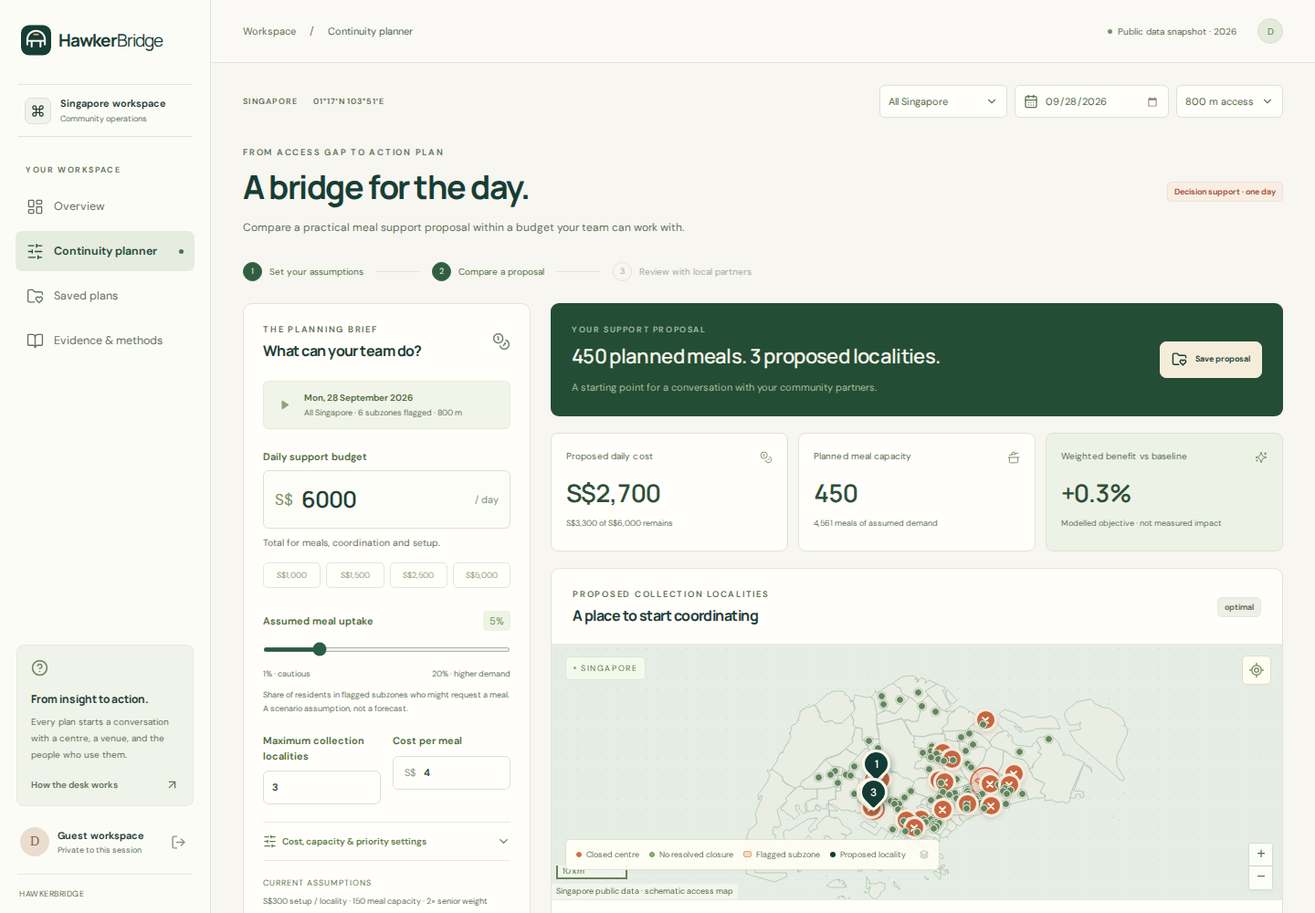
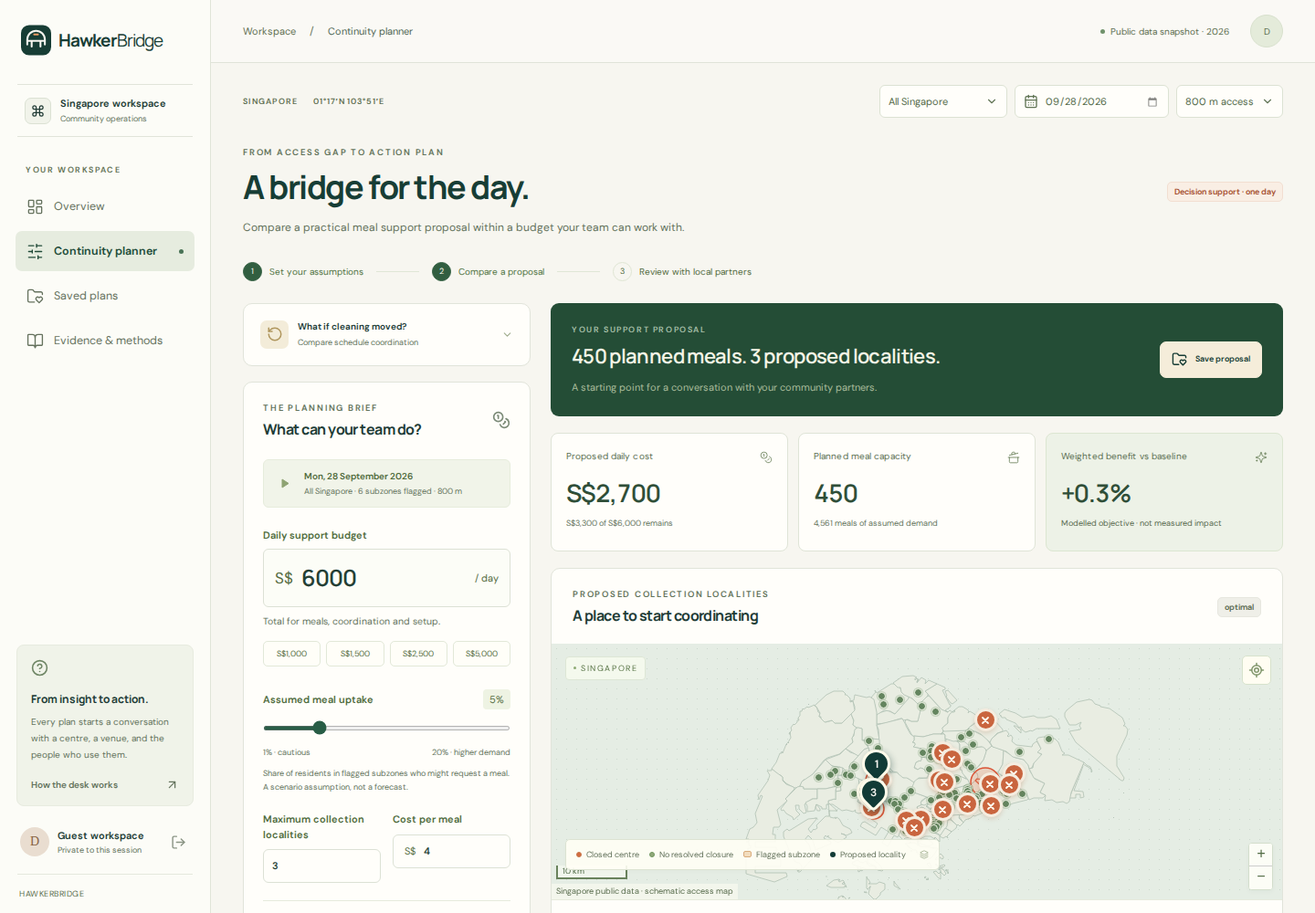
Publish hosted verification, narrated demo and final submission evidence

diff --git a/scripts/build_submission_pack.py b/scripts/build_submission_pack.py
@@ -116,7 +116,7 @@ def main() -> None:
                 "docs/screenshots": ["*.png", "README.md", "provenance.json"],
         "submission": ["*.md", "*.srt", "deployment-status.json", "team.json", "narration-scenes.json"],
         "submission/assets": ["*.png"],
-        "output": ["example-continuity-plan.csv", "example-continuity-plan.json", "hosted-smoke.json", "hosted-restart-smoke.json"],
+        "output": ["example-continuity-plan.csv", "example-continuity-plan.json", "hosted-smoke.json", "hosted-restart-smoke.json", "hosted-assets.json"],
         "data/processed": ["databricks-publication.json", "databricks-evaluation.json"],
         "output/video": [
             "hawkerbridge-demo-narrated.mp4",

diff --git a/docs/final-rubric-review.md b/docs/final-rubric-review.md
@@ -1,0 +1,67 @@
+# Final rubric and release review
+
+Updated 22 September 2026 for source `b539db724c3731897595e81061a73070655920cf`. This is an internal assessment, not an official judge score, a winning prediction or a security certification. Weights follow the [official final-solution rubric](https://daisi.online/guide). The scale is ten points per criterion, multiplied by its published weight.
+
+**Internal score: 84/100.** The actual narrated hosted video and both rebuilt decks exist and have recorded verification. Final hosted acceptance has now passed all four application journeys, following a test-only correction to an overly short initial-readiness timeout. Adoption, measured benefit and eligibility remain separate unresolved questions.
+
+| Official criterion | Weight | Assessment | Weighted score | Evidence and remaining limit |
+| --- | ---: | ---: | ---: | --- |
+| Social impact | 30% | 7/10 | 21/30 | Named coordinator workflow, credible continuity decision and measurable pilot protocol. No observed uptake, operator interview, paid commitment or welfare outcome is verified. |
+| Technical execution on Databricks | 30% | 9/10 | 27/30 | Successful governed pipeline, twelve quality checks, nine MLflow scenarios, four query datasets, published AI/BI dashboard, native App OAuth checks and actual Delta isolation/concurrency tests. Native workspace browser rendering and a second real workspace identity remain unverified. |
+| Solution and user experience | 20% | 9/10 | 18/20 | Complete analysis, cleaning comparison, private-plan and export workflow. Four final hosted browser journeys, HTTP, isolation, stale-edit rejection and rollout persistence passed. Automated accessibility checks found no serious or critical violations on the tested screens. Operator usability and venue capacity remain unvalidated. |
+| Data rigour | 10% | 9/10 | 9/10 | Five official sources, original bytes/hashes/dates, quarantine, preserved proposal evidence and mathematical feasibility checks. Dated census, representative points, omitted food alternatives and unsupported waste/permanent-closure labels are disclosed. |
+| Presentation | 10% | 9/10 | 9/10 | Concrete 225/450/450 story, reviewed three-slide and nine-slide decks, public 175-second narrated hosted recording and 33 timed captions. Presenter rehearsal and a clear response to the data limitations still matter. |
+
+## Numbers and claims checked
+
+Recomputed the released engine against the promoted Databricks snapshot. On **28 September 2026**, at **800 metres**, there are **17 scheduled centre closures**, **1,025 listed food stalls** inside those centres, and **six flagged subzones** containing **91,180 Census 2020 residents**, including **17,120 seniors**. These are area-screen totals; they are not people observed to need food. Inventory contains 123 records, of which 120 have food stalls.
+
+At 5% assumed participation, S$4 per meal, S$300 setup, 150 meals per locality, at most three localities and senior weight 2: **S$1,500 → 225 planned meals / S$1,500 spending / two localities; S$3,000 → 450 / S$2,700 / three; S$6,000 → 450 / S$2,700 / three**. No meals or venues are booked. The ceiling follows the declared capacity and site limit; it is an operational question to verify, not a discovered real-world service capacity.
+
[1 lines of base64/hex data omitted]
+
+| Evidence | Actual execution and scenarios | Supported objective uplift claim |
+| --- | --- | --- |
+| [Local robustness evaluation](../data/processed/evaluation.json) | 15 unique local runs on the cloud-published snapshot. Dates Sep 22, Sep 28 and Dec 14; primary budgets S$1,500/3,000/6,000 at 800 m; additional 500/1,200 m reach checks. All 15 pass the feasibility audit. | **0.3%–9.2% across nine primary cases**. The full 15-case range is 0.3%–13.8%; do not attach the primary range to a different set. |
+| [Databricks evaluation](../data/processed/databricks-evaluation.json) | Nine actual cloud runs: **Sep 22, Oct 5 and Dec 14 × S$600/1,500/3,000**, all at 800 m. | **2.8%–9.2% across the nine cloud cases**. These are policy-weighted model objectives, not observed welfare or predictive accuracy. |
+
+The **Sep 28 presentation is an API recomputation from the cloud publication**, not one of the nine recorded cloud evaluation cases. The [execution record](../data/processed/databricks-publication.json) records pipeline `SUCCESS`, parent MLflow `FINISHED`, twelve passing checks and four query datasets. Three tabular sources were fetched live; two URA geometry archives were reused with their original timestamps and verified checksums. “Five sources freshly downloaded in Databricks” would be inaccurate. The API now withholds stale, missing, failed or mismatched cloud proof.
+
+## Commercial assessment
+
+The [business case](business-case.md) is appropriately cautious. Its S$1,000 pilot, S$250–500 monthly subscription, support-hour assumptions and hosting allowances are explicitly experiments, not sales, quotations or forecasts. All three contribution calculations reconcile, including the negative downside case. Founder time is costed, meal-operation costs are separated from software revenue, and Databricks Free Edition is correctly excluded as the basis for a paid production promise.
+
+The critical assumption is task frequency. A single site's occasional cleaning closure may not create enough work for a subscription; a multi-site operator or scoped project fee is more plausible. At S$300/month and S$30/hour, ten saved hours merely offset the subscription before onboarding and verification. Require a named accountable buyer, measured baseline preparation time and repeat willingness to pay before presenting commercial traction. Public data and an optimiser are not a moat. Do not delay a useful pilot to add a speculative LLM feature: no paid LLM is required by the current product.
+
+## Final evidence and verification boundaries
+
+| Evidence | Verified result | Boundary |
+| --- | --- | --- |
+| [Local CI 35696909209](https://github.com/shi1720/DAISI/actions/runs/35696909209) | Completed successfully on `b539db7`, including backend, frontend and browser workflow checks. | Local-runner success does not establish public hosting acceptance. |
+| [Final hosted acceptance 35697740614](https://github.com/shi1720/DAISI/actions/runs/35697740614) | Completed successfully against `hawkerbridge-api-00006-lnl`: 180 backend tests, 30 frontend tests and four hosted browser journeys passed. Tested source `16b538d` changes initial readiness to a bounded twenty-second API-success wait, without retries; deployed product code is `b539db7`. | One opt-in frontend integration test and the optional recording test were intentionally skipped. The four application journeys all ran. A passing check is not an accessibility certification or availability SLA. |
+| [Hosted HTTP acceptance](../output/hosted-smoke.json) | Managed sign-in, two-user isolation, 225/450/450, all exports, CSRF/origin boundaries, current evidence and stale-edit rejection passed. | HTTP verification is distinct from visual/accessibility/browser acceptance. |
+| [Rollout persistence](../output/hosted-restart-smoke.json) | A named account and saved proposal survived a container rollout; disposable test data was deleted. | This establishes the recorded rollout, not an availability SLA. |
+| [Native Databricks verification](databricks-verification.json) | Final App deployment uses source `b539db7`; deployed backend/frontend file hashes match. OAuth health, platform session, nine-case evidence and all three budget scenarios passed. The actual Delta concurrency/isolation test passed. | Native browser/map/mobile rendering, a second real workspace user and dashboard visual rendering are explicitly unverified. |
+| [Retention verification](firebase-retention-verification.json) | Hourly scheduler enabled; authenticated scheduled invocation, execute and dry runs succeeded; saved deletion command survived dry-run. | Guest expiry and bounded cleanup are operational controls, not a commercial service guarantee. |
+| [Public narrated video](https://youtu.be/vioVop-MEVA) and [provenance](../output/video/narrated-provenance.json) | Studio confirmed public publication; the watch page played the 175-second video with the correct title, author and English captions. Unauthenticated oEmbed returned 200. The local H.264/AAC file checksum reconciles; 1600 × 900, 33 captions and fourteen documented visual sample points. Synthetic Cedar narration is disclosed. | The video is a recorded demonstration using the earlier capture revision below. Playback verification does not establish universal network or device compatibility. |
+
+The hosted video preserves its actual capture provenance: recording test passed on earlier source `6cd7e8` in run `35695869659`; another journey in that run found a Leaflet teardown defect, subsequently fixed. The recording is not relabelled as a capture of `b539db7`. [Capture provenance](../output/demo-footage/provenance.json) identifies this boundary. Final hosted run `35697740614` separately verifies the corrected product. The preceding run's five-second readiness assertion was resolved by waiting for the initial API success, not by retrying a failed application journey.
+
+The public application uses the verified `a3b84df…` data publication. The repo is public, with `main` as its only branch. The official three-slide Round 1 and nine-slide final decks were rebuilt and visually reviewed with current cloud and hosted evidence. The narrated MP4 and public video are delivered artifacts. Devpost project `1192740` has the updated story, testing evidence, five captioned screenshots, public video URL and official Round 1 PDF saved. It remains at 4/5 completion; required academic/enrolment details have been requested, so no final submission is claimed. Gallery captures come from run `35697233597` on product `b539db7`; successful run `35697740614` verifies that unchanged product.
+
+## Closed release findings
+
+The earlier retention dry-run bug is fixed: preview executes with temporary arguments and preserves the scheduled `--execute` command. The earlier HTML caching bug is fixed: actual HTML/SPA response revalidation passed. Revision checks prevent stale edits or resurrection of deleted plans. Firebase Hosting uses the forwarded `__session` cookie, managed Firestore replaces ephemeral public SQLite, and origin/CSRF/owner checks passed hosted HTTP tests.
+
+Read-only deployment checks confirmed public Firestore access returns 403 and unauthenticated private API routes return 401 with no-store headers. The API itself is intentionally publicly invokable, with application authentication protecting private data. A dedicated managed identity runs the API, and the scheduler may invoke its specific retention job. A narrow code/configuration pattern scan found no private key, GitHub token or Databricks PAT; this is not a comprehensive secret-scanner guarantee.
+
+Earlier stale roadmap/API-contract statements were corrected. Publication copy distinguishes the nine cloud cases from the fifteen local cases and three live tabular downloads from two reused geometry archives. Historical local screenshots and recordings retain their original capture labels.
+
+## Remaining decisions
+
+1. Regenerate source/submission ZIPs from the final committed artifacts and check their manifests. Do not infer fresh packaging from earlier files.
+2. Confirm Singapore IHL eligibility, institution, course, year and team particulars with Shivam before an eligibility attestation. The Devpost primary contact was taken from the verified signed-in account; student eligibility cannot be inferred from that account or the implementation.
+3. Rehearse the three-minute presentation and explain the proxy, capacity assumptions, two evaluation sets and data limitations without equating scenario meals with deliveries or residents with measured need.
+4. Validate one real operator workflow before claiming adoption or impact. The proposed 30% preparation-time reduction, S$1,000 pilot and S$250–500 monthly subscription remain hypotheses. A rare single-site closure may justify a project fee rather than recurring software spend.
+
+The strongest story remains a coordinator deciding what to verify before funding support. Technical completeness does not supply customer evidence, prove eligibility or guarantee a prize.

diff --git a/submission/publication-audit.md b/submission/publication-audit.md
@@ -1,0 +1,58 @@
+# Publication handoff and rubric audit
+
+Internal notes, updated 22 September 2026, for existing Devpost project **1192740**. This document records implementation and verification evidence. The narrated video is public and verified; Devpost remains at 4/5 completion while required academic/enrolment details are unverified. Final submission is not claimed.
+
+## Field map
+
+| Field | Content |
+| --- | --- |
+| Name | HawkerBridge |
+| Tagline | Turn hawker closure notices into practical, reviewable community support plans. |
+| Problem | C3: KopilamAI |
+| Story | `submission/devpost-description.md` |
+| Testing | `submission/testing-instructions.md` |
+| Built with | Python, TypeScript, React, FastAPI, SciPy, HiGHS, Shapely, Databricks, Delta Lake, Unity Catalog, MLflow, Lakeflow, Leaflet, Firebase Hosting, Firebase Authentication, Cloud Firestore, Cloud Run. |
+| Code | https://github.com/shi1720/DAISI |
+| Website | https://hawkerbridge-sg.web.app |
+| Video | [Public narrated demonstration](https://youtu.be/vioVop-MEVA), 175 seconds, with 33 English captions. Studio publication, watch-page playback and unauthenticated oEmbed resolution are verified. |
+| Round 1 | `output/pdf/hawkerbridge-round1.pdf`, official three-slide format |
+| Final deck | `output/pdf/hawkerbridge-final-pitch.pdf`, nine pages |
+| Team | Shivam Gupta. Primary contact is taken from the verified signed-in account. Institution, course, year and eligibility still require verified participant information. |
+
+Preserve the existing Devpost project. Fill any additional form-specific fields from actual evidence. Do not attest to unknown student status.
+
+## Verified execution and release acceptance
+
+The Databricks pipeline completed successfully: publication `69cbf18aae9c4f1883b629ab0de25843`, finished parent MLflow run, twelve passing quality checks, nine scenario results and four executed dashboard SQL datasets. Three tabular sources were fetched live; two URA geometry archives were reused with their original timestamps and checked hashes. The public [execution record](../data/processed/databricks-publication.json) contains the run evidence. A verified CLI login alone would not establish this, but actual execution has now been read back and checked.
+
[1 lines of base64/hex data omitted]
+
+[Final hosted run 35697740614](https://github.com/shi1720/DAISI/actions/runs/35697740614) completed successfully against revision `hawkerbridge-api-00006-lnl`: 180 backend tests, 30 frontend tests and all four application browser journeys passed. The opt-in frontend integration test and optional recording test were intentionally skipped. Tested source `16b538d` changes the initial API-success wait to twenty seconds without retries; product code remains `b539db7`, which also passed complete [local CI 35696909209](https://github.com/shi1720/DAISI/actions/runs/35696909209). This resolves the preceding run's overly short readiness assertion. The narrated hosted video has checksum/media/caption verification plus fourteen sampled visual checks. YouTube Studio confirmed public publication; the watch page played the 175-second video with the correct title and author, English manual captions were visible, and unauthenticated oEmbed returned 200 for the public link.
+
+Public authentication uses verified Firebase `__session` cookies, exact origins and CSRF, not Databricks forwarding headers. Owner-scoped Firestore replaces ephemeral SQLite. Stale edits return 409 and deleted plans cannot be recreated by an in-flight patch. The enabled hourly retention schedule successfully invoked its worker; execute and dry runs passed, with the saved deletion command preserved. The deployed HTML/SPA revalidation headers also passed acceptance. These results close the retention and caching findings. See `docs/firebase-retention-verification.json`.
+
+## Keep the two evaluations separate
+
+| Evidence | Actual scenario set | Supported claim |
+| --- | --- | --- |
+| Local robustness | 15 unique cases on the promoted snapshot; Sep 22/Sep 28/Dec 14, budgets S$1,500/3,000/6,000, plus reach sensitivity | All feasible. Nine primary cases show 0.3%–9.2% policy-weighted objective uplift. |
+| Databricks MLflow | Sep 22/Oct 5/Dec 14 × S$600/1,500/3,000, all at 800 m | Nine real cloud comparisons; 2.8%–9.2% policy-weighted objective uplift. |
+
+The Sep 28 demonstration is an API recomputation from published data, not one of the nine cloud evaluation cases. Its verified numbers are 17 scheduled closures, six flagged subzones and 91,180 historical area residents; S$1,500/S$3,000/S$6,000 produce 225/450/450 planned meals at S$1,500/S$2,700/S$2,700 spending. These are neither beneficiaries nor delivered meals.
+
+## Criteria, adoption and attribution
+
+The [official guide](https://daisi.online/guide) assigns final weights of 30% social impact, 30% Databricks execution, 20% UX, 10% data rigour and 10% presentation. The [final internal review](../docs/final-rubric-review.md) scores current evidence at 84/100; that is not an official judge score or winning prediction. C3 covers hawker access and closure evidence. HawkerBridge deliberately narrows the problem to temporary continuity, without fabricating permanent-closure trends or centre-level waste labels.
+
+The guide specifies the common three-slide Round 1 template and 6 October 2026, 11:59 PM SGT deadline. Current Singapore IHL eligibility remains unverified. AI assistance is permitted, and Shivam is accurately credited as project owner who initiated the brief and set product goals; no personal coding history or stakeholder interviews are invented.
+
+Lead with the coordinator's cleaning comparison and the S$3,000 versus S$6,000 capacity plateau. The buyer, schedule owner, meal operator and resident may differ. Pricing and the 30% preparation-time target remain pilot hypotheses, with no customers, partnerships or revenue claimed. Cloud Run requires linked billing and Databricks Free Edition is noncommercial; do not promise cost-free commercial hosting.
+
+## Remaining handoff gates
+
+1. Synchronise all copy and rebuild ZIPs from the final committed artifacts. Preserve accurate capture history: the video was recorded from an earlier hosted revision, not relabelled as the latest source. Final hosted acceptance, public video publication, both rebuilt decks and HTTP/rollout checks are complete.
+2. Complete required member details only from verified participant information. The correct official Round 1 PDF is already attached. Verify the resulting submission state after completing the remaining form; workspace URLs may require authorised access, and credentials must never be shared.
+
+The user authorised filling the existing project and public YouTube publication. This authorisation does not justify claiming unfinished checks, unknown eligibility or an upload that has not happened.
+
+Current publishing handoff: Devpost is at 4/5 completion, with the final story, testing evidence, five captioned screenshots, public video URL and official Round 1 PDF saved. Primary contact was taken from the verified signed-in account. Gallery screenshots were captured by run `35697233597` on product `b539db7`; later successful run `35697740614` verifies the unchanged application. Institution, course, year and Singapore IHL eligibility have been requested and remain unverified; form progress is not a completed-submission claim.

diff --git a/docs/screenshots/README.md b/docs/screenshots/README.md
@@ -1,29 +1,22 @@
-# Verified product screenshots
+# Verified hosted product screenshots
 
-These are real Chromium captures of the running HawkerBridge application, backed by its Python API and the acquired Singapore public-data snapshot. They are not mockups. The application was exercised in an isolated guest workspace using synthetic test records.
+These are unmodified Chromium captures from the real [Firebase application](https://hawkerbridge-sg.web.app), using its Python API and verified Databricks publication. They are not mockups. The source revision is `b539db724c3731897595e81061a73070655920cf`.
 
-The captures come from [successful GitHub Actions run 35689097551](https://github.com/shi1720/DAISI/actions/runs/35689097551), source commit `94b96cf7994093bc77a23eac1171c9a2624a784e`, on 22 September 2026. All four browser journeys passed, including account creation/sign-in, saved-plan review/export, scoped planning, zero-budget behavior, and mobile navigation. The overview Axe scan returned no violations for its configured WCAG 2 A/AA rules. This automated check is not a claim of comprehensive accessibility certification.
+Screenshots were captured in the passing main and mobile journeys of [run 35697233597](https://github.com/shi1720/DAISI/actions/runs/35697233597). All six configured Axe scans returned no violations. The full run found a separate five-second readiness timeout while a successful initial analysis was loading; it is not labelled a passing run. [Final hosted acceptance 35697740614](https://github.com/shi1720/DAISI/actions/runs/35697740614) passed all four journeys, six Axe scans and 320px/390px layouts. Exact revisions are recorded in `submission/deployment-status.json`. The readiness change alters the test, not the pictured application.
 
-| Image | Capture | What it shows |
-|---|---|---|
-| [welcome.png](welcome.png) | 1440 × 1040 | Guest access and real account sign-in |
-| [overview.png](overview.png) | 1440 × 1000 viewport | 28 September 2026; all Singapore; 800 m threshold; 17 scheduled closures and 6 subzones flagged for review |
-| [planner.png](planner.png) | 1440 × 1000 viewport | S$1,500 scenario: 225 planned meals at 2 unverified collection localities |
-| [capacity-comparison.png](capacity-comparison.png) | 1440 × 1000 viewport | S$6,000 available, S$2,700 allocated, 450 planned meals; the three-locality capacity limit binds |
-| [saved-plan.png](saved-plan.png) | 1440 × 1531 full page | Real saved browser-test proposal, review checkpoint, assumptions, notes, brief and successful PDF export |
-| [evidence.png](evidence.png) | 1440 × 3208 full page | Source records, methodological limits, data-quality checks and computational benchmark |
-| [mobile-overview.png](mobile-overview.png) | 390 × 2613 full page | Mobile overview without document-level horizontal overflow |
-| [mobile-planner.png](mobile-planner.png) | 390 × 3399 full page | Mobile assumptions, allocation, comparison and uptake sensitivity |
+| Image | What to inspect |
+| --- | --- |
+| welcome.png | Guest access and real account sign-in |
+| overview.png | 28 September, 800 m, 17 closures and six subzones flagged for review |
+| planner.png | S$1,500 and 225 planned meals |
+| capacity-comparison.png | S$6,000 available, 450 planned meals, S$2,700 allocated |
+| saved-plan.png | Synthetic 225-meal proposal, notes, review checkpoint and PDF export |
+| evidence.png | Sources, limitations, publication and separate local benchmark |
+| databricks-publication.png | Actual nine cloud scenarios, twelve passing checks and five sources |
+| mobile-overview.png | 390px mobile overview |
+| mobile-planner.png | 390px mobile planning workflow |
+| small-mobile-planner.png | 320px layout, including all four budget presets |
 
-The saved plan's **Reviewed** status records acknowledgement of modelling assumptions and the need for future verification. It does not indicate a verified venue, confirmed meal demand, operator agreement or dispatched service. No real partners were contacted. Population figures are Census 2020 residents in flagged subzones; meals are planning assumptions, not people actually served.
+A test proposal's Reviewed status acknowledges modelling assumptions and the need for future operational checks. It does not establish a verified venue, confirmed demand, operator agreement or delivered meals. All test notes are synthetic. Population figures are Census 2020 area totals.
 
-The PNGs are unmodified copies of the CI output. Because GitHub artifact storage was full, the workflow also preserved their bytes in tagged log records. `browser-tests/extract-evidence.mjs` decoded the records and verified each byte count and SHA-256 digest. [provenance.json](provenance.json) records image hashes, dimensions, source names, commit, run and data-snapshot provenance.
-
-To reproduce the browser verification, run the repository's `Verify HawkerBridge` workflow. To decode its screenshot fallback:
-
-```sh
-gh run view RUN_ID --log > run.log
-node browser-tests/extract-evidence.mjs run.log output/recovered-evidence
-```
-
-The separate `record_demo=true` workflow option records a real, silent walkthrough for Shivam Gupta's voiceover. It was intentionally skipped in the screenshot-verification run above.
+`provenance.json` records original names, dimensions and SHA256 hashes. The workflow preserves screenshot bytes in logs as a fallback when artifact storage is unavailable. Decode them with `node browser-tests/extract-evidence.mjs run.log output/recovered-evidence`. The final narrated video uses an earlier actual hosted recording whose separate provenance is preserved in `output/demo-footage/provenance.json`.

diff --git a/submission/devpost-description.md b/submission/devpost-description.md
@@ -22,7 +22,7 @@ A transparent geospatial screen feeds a mixed-integer allocation model using Sci
 
 The public interface is available at [hawkerbridge-sg.web.app](https://hawkerbridge-sg.web.app), with Firebase Authentication, Cloud Firestore and a Python API on Cloud Run in Singapore. Private proposals survive application instances. Server-verified sessions, owner checks, optimistic edit revisions and resumable deletion protect the workflow. The application checks source and model fingerprints before displaying cloud execution evidence.
 
-**Release status:** Databricks execution and hosted HTTP acceptance are verified. The public release passed managed sign-in, owner isolation, the 225/450/450 budget comparison, exports, CSRF/origin protection and stale-edit rejection. A saved account and proposal survived a container rollout, after which the test account was deleted. The final hosted browser journeys and video review are still in progress. [Databricks evidence](https://github.com/shi1720/DAISI/blob/main/data/processed/databricks-publication.json), [hosted acceptance](https://github.com/shi1720/DAISI/blob/main/output/hosted-smoke.json), [rollout persistence](https://github.com/shi1720/DAISI/blob/main/output/hosted-restart-smoke.json)
+**Release status:** Databricks execution and hosted HTTP acceptance are verified. The public release passed managed sign-in, owner isolation, the 225/450/450 budget comparison, exports, CSRF/origin protection and stale-edit rejection. A saved account and proposal survived a container rollout, after which the test account was deleted. The final hosted run passed all four browser journeys, six accessibility scans, 180 backend tests and 30 frontend tests, including rapid map navigation and 320px/390px mobile layouts. The narrated 175-second demo is [public on YouTube](https://youtu.be/vioVop-MEVA). [Hosted browser verification](https://github.com/shi1720/DAISI/actions/runs/35697740614). [Databricks evidence](https://github.com/shi1720/DAISI/blob/main/data/processed/databricks-publication.json), [hosted acceptance](https://github.com/shi1720/DAISI/blob/main/output/hosted-smoke.json), [rollout persistence](https://github.com/shi1720/DAISI/blob/main/output/hosted-restart-smoke.json)
 
 ## Challenges we ran into
 

diff --git a/START_HERE.md b/START_HERE.md
@@ -6,6 +6,8 @@
 
 HawkerBridge helps a community coordinator prepare for a scheduled hawker-centre closure. Compare cleaning dates, identify areas to investigate, and allocate a reviewable meal-support proposal under budget and capacity limits. In the demonstration, doubling the budget from S$3,000 to S$6,000 adds no meals because three localities at 150 meals each already reach capacity.
 
+[Watch the narrated demo](https://youtu.be/vioVop-MEVA), with timed English captions.
+
 ## Try the product
 
 Open **[hawkerbridge-sg.web.app](https://hawkerbridge-sg.web.app)** and choose **Explore as a guest**. Set **28 September 2026**, **All Singapore**, **800 m access**. In the planner compare budgets **1,500**, **3,000** and **6,000**. Expected proposals: **225 / 450 / 450 planned meals**. Save a draft, inspect its review checklist and export PDF, CSV or JSON. [Full testing instructions](submission/testing-instructions.md).
@@ -29,7 +31,7 @@ Three tabular sources were fetched live; two checksummed URA geometry archives w
 - **Example output:** [exported plan PDF](output/pdf/example-continuity-plan.pdf), [CSV](output/example-continuity-plan.csv) and [JSON with preserved provenance](output/example-continuity-plan.json).
 - **Commercial case:** [operator pilot, pricing hypotheses and cost sensitivity](docs/business-case.md). No customers, measured impact or revenue are claimed.
 
-The [submission ZIP](output/HawkerBridge-submission-pack.zip) includes a separate [source ZIP](output/HawkerBridge-source.zip). Both have verified SHA256 manifests. The source installs independently of GitHub. ZIPs are generated locally from committed source with `uv run python scripts/build_submission_pack.py`.
+The [submission ZIP](https://github.com/shi1720/DAISI/releases/download/daisi-2026/HawkerBridge-submission-pack.zip) includes a separate [source ZIP](https://github.com/shi1720/DAISI/releases/download/daisi-2026/HawkerBridge-source.zip). Both have verified SHA256 manifests. The source installs independently of GitHub. ZIPs are generated locally from committed source with `uv run python scripts/build_submission_pack.py`.
 
 ## Reproduce and deploy
 

diff --git a/submission/youtube-metadata.md b/submission/youtube-metadata.md
@@ -1,5 +1,9 @@
 # YouTube publication copy
 
+Published publicly: https://youtu.be/vioVop-MEVA
+
+Verified title, author, 175-second playback, manual English captions and original thumbnail. Copyright and Community Guidelines checks completed without reported issues.
+
 ## Title
 
 HawkerBridge | When More Budget Does Not Mean More Meals | DAISI Singapore 2026
@@ -32,8 +36,8 @@ Shivam Gupta initiated the brief, set the product goals and owns the project. Re
 
 ## Publishing instructions, not description text
 
-- **Release gate:** Databricks execution, hosted HTTP acceptance, matching cloud publication and saved-plan persistence across rollout are verified. Final hosted browser journeys and video capture/review remain in progress at this edit. Publish only after the actual footage has been inspected and the browser run has completed successfully. Prepared copy is not evidence of a completed video.
-- Use **Public** visibility as requested. Verify the actual video and Devpost URLs in a signed-out browser before adding them. No video URL is invented here.
+- **Release verified:** Databricks execution, hosted HTTP acceptance, rollout persistence and final hosted browser CI 35697740614 passed. The actual hosted edit was visually reviewed before publication. Capture and verification have separate provenance files.
+- Public visibility was verified in Studio, actual playback in the browser and unauthenticated oEmbed access. Devpost remains a draft until participant eligibility details and final declarations are complete.
 - Category: **Science & Technology**. Language: **English**. Tags: HawkerBridge, DAISI Singapore 2026, Databricks, hawker centres, community planning, open data, food access, optimisation.
 - Thumbnail: actual product capture with **WHEN MORE BUDGET IS NOT ENOUGH** and the 450 planned-meal result. No invented impact figure.
 - Add captions aligned to final audio and keep the video below three minutes. If Shivam records his own narration, remove the synthetic-narrator sentence.

diff --git a/docs/judge-review.md b/docs/judge-review.md
@@ -1,5 +1,7 @@
 # Internal adversarial review  -  22 September 2026
 
+**Historical audit:** this file preserves earlier findings and the evidence available at each review. For the current hosted release, completed Databricks run, narrated demo and remaining adoption/eligibility gaps, read the [final rubric review](final-rubric-review.md) and [deployment status](../submission/deployment-status.json). Older pending statements below are historical.
+
 **Subsequent verification:** [CI run 35691832262](https://github.com/shi1720/DAISI/actions/runs/35691832262), revision `1ba692e`, completed successfully. Backend/frontend checks and all four functional browser journeys passed, including accessibility of the expanded cleaning comparison. The actual walkthrough was captured separately at `21c1f1f`; its recording test passed, while its broader run found three low-contrast banner nodes. The later revision corrects those colors. Exact capture and verification boundaries are preserved in `output/video/provenance.json`. A source ZIP exported at `c279088` was independently extracted, installed with frozen dependencies, built and started locally; a fresh guest created the expected 225-meal proposal, preserved all five sources and exported a valid PDF. Video assembly also passed H.264-only and H.264/AAC checks at 175 seconds using temporary test silence, with the execution-status footer visually inspected. These checks do not establish cloud deployment, field validation or video publication. The original heuristic scores remain unchanged.
 
 This is an internal heuristic assessment, not an official score, prediction of placing, or independent external validation. The reviewer also contributed platform artifacts earlier in the project. The purpose of this pass is to challenge the current submission and expose defects. Implementation was not edited during the review; several findings were fixed by the implementation agents after the first report and are recorded below.

diff --git a/README.md b/README.md
@@ -6,7 +6,7 @@ A closure calendar answers *when*. HawkerBridge helps a coordinator decide *wher
 
 Built for **DAISI Singapore 2026, C3: KopilamAI**. Project owner: **Shivam Gupta**.
 
-[Try HawkerBridge](https://hawkerbridge-sg.web.app) · [Submission and demo guide](START_HERE.md) · [Verified screenshots](docs/screenshots/README.md)
+[Try HawkerBridge](https://hawkerbridge-sg.web.app) · [Watch the 2:55 demo](https://youtu.be/vioVop-MEVA) · [Submission and demo guide](START_HERE.md) · [Verified screenshots](docs/screenshots/README.md)
 
 ![HawkerBridge overview from the verified browser journey](docs/screenshots/overview.png)
 
@@ -122,6 +122,8 @@ npm --prefix frontend audit --audit-level=high
 The GitHub Actions workflow runs backend, frontend and Chromium browser checks, then attempts to save screenshots, traces, video and exported-plan evidence as an artifact. Selected evidence also has a checksum-verified CI-log fallback when GitHub artifact storage is full. Browser tests live in `browser-tests/`. They cover account creation, authenticated planning, advanced-form validity, scope, saving, review, download, independent accounts and mobile overflow.
 
 ## Submission pack
+
+[Download all submission materials](https://github.com/shi1720/DAISI/releases/download/daisi-2026/HawkerBridge-submission-pack.zip) or [download the independent source archive](https://github.com/shi1720/DAISI/releases/download/daisi-2026/HawkerBridge-source.zip). Both contain SHA256 manifests.
 
 - **Round 1:** `output/pdf/hawkerbridge-round1.pdf`, based on the official three-slide template.
 - **Round 2:** `output/pdf/hawkerbridge-final-pitch.pdf` and its editable presentation, plus product screenshots.

diff --git a/submission/testing-instructions.md b/submission/testing-instructions.md
@@ -2,7 +2,7 @@
 
 Open [HawkerBridge](https://hawkerbridge-sg.web.app) and select **Explore as a guest**. No API key, shared password or Databricks account is required for the public application. Named accounts use email/password through Firebase Authentication; private proposals use Cloud Firestore. Code and reproducible setup are at [github.com/shi1720/DAISI](https://github.com/shi1720/DAISI).
 
-**Release status:** actual Databricks execution, hosted HTTP acceptance and saved-plan persistence across a container rollout passed. The public checks cover sign-in, owner isolation, 225/450/450 allocations, exports, source evidence, CSRF/origin boundaries and stale edits. Final hosted browser journeys and video review remain in progress. See `output/hosted-smoke.json`, `output/hosted-restart-smoke.json` and `submission/deployment-status.json` for the exact evidence boundary.
+**Release status:** actual Databricks execution, hosted HTTP acceptance and saved-plan persistence across a container rollout passed. The public checks cover sign-in, owner isolation, 225/450/450 allocations, exports, source evidence, CSRF/origin boundaries and stale edits. [Final hosted verification](https://github.com/shi1720/DAISI/actions/runs/35697740614) passed all four browser journeys, six Axe scans and mobile checks at 320px/390px. The reviewed 175-second demo is [public](https://youtu.be/vioVop-MEVA). See `output/hosted-smoke.json`, `output/hosted-restart-smoke.json` and `submission/deployment-status.json` for the exact evidence boundary.
 
 ## Five-minute walkthrough
 

diff --git a/NOTICE.md b/NOTICE.md
@@ -15,3 +15,9 @@ React, Vite, TypeScript, FastAPI, Uvicorn, NumPy, SciPy, HiGHS, Shapely, ReportL
 The Round 1 template was downloaded from the [official DAISI participant guide](https://daisi.online/guide). Its original layout, red header, typeface, slide structure and footer are retained. It is supplied for participation, not relicensed by this project.
 
 Illustrative product artwork is original SVG code. It is not a photograph of a real venue. Any browser evidence shows the implemented application using the documented source snapshot and scenario assumptions.
+
+## Presentation photograph and narration
+
+The final pitch cover uses Kagenlim's photograph of Tampines Round Market and Food Centre, dated 12 February 2020, from [Wikimedia Commons](https://commons.wikimedia.org/wiki/File:Hawker_Center,_Singapore.jpg), under [CC BY-SA 4.0](https://creativecommons.org/licenses/by-sa/4.0/). The cover crop retains that licence and is not covered by this repository's MIT licence. It provides historical context and does not depict a project pilot or participating operator. Attribution appears on the slide and in its notes.
+
+The final demonstration uses a generic OpenAI cedar synthetic narrator, with word-timed captions. It does not clone Shivam Gupta's voice. `output/video/narrated-provenance.json` records the actual media hashes, source capture and review. Product logos, title cards and the thumbnail are original project artwork.

diff --git a/submission/recording-guide.md b/submission/recording-guide.md
@@ -16,7 +16,7 @@ The final release video is **175 seconds**, below the three-minute limit. It rec
      --output output/video/hawkerbridge-demo-narrated.mp4
    ```
 
-The renderer begins with an original 8.5-second title card while the recorded page loads, then preserves the actual browser footage. It aligns six narration scenes, burns readable captions and labels the synthetic narration. It also writes an editable SRT track and media hashes to `output/video/narrated-provenance.json`. It refuses to replace an existing final video silently.
+The renderer begins with an original 8.5-second title card while the recorded page loads, then preserves the actual browser footage until a six-second closing card displays the public website. It aligns six narration scenes, burns readable captions and labels the synthetic narration. It also writes an editable SRT track and media hashes to `output/video/narrated-provenance.json`. It refuses to replace an existing final video silently.
 
 ## Final review
 
